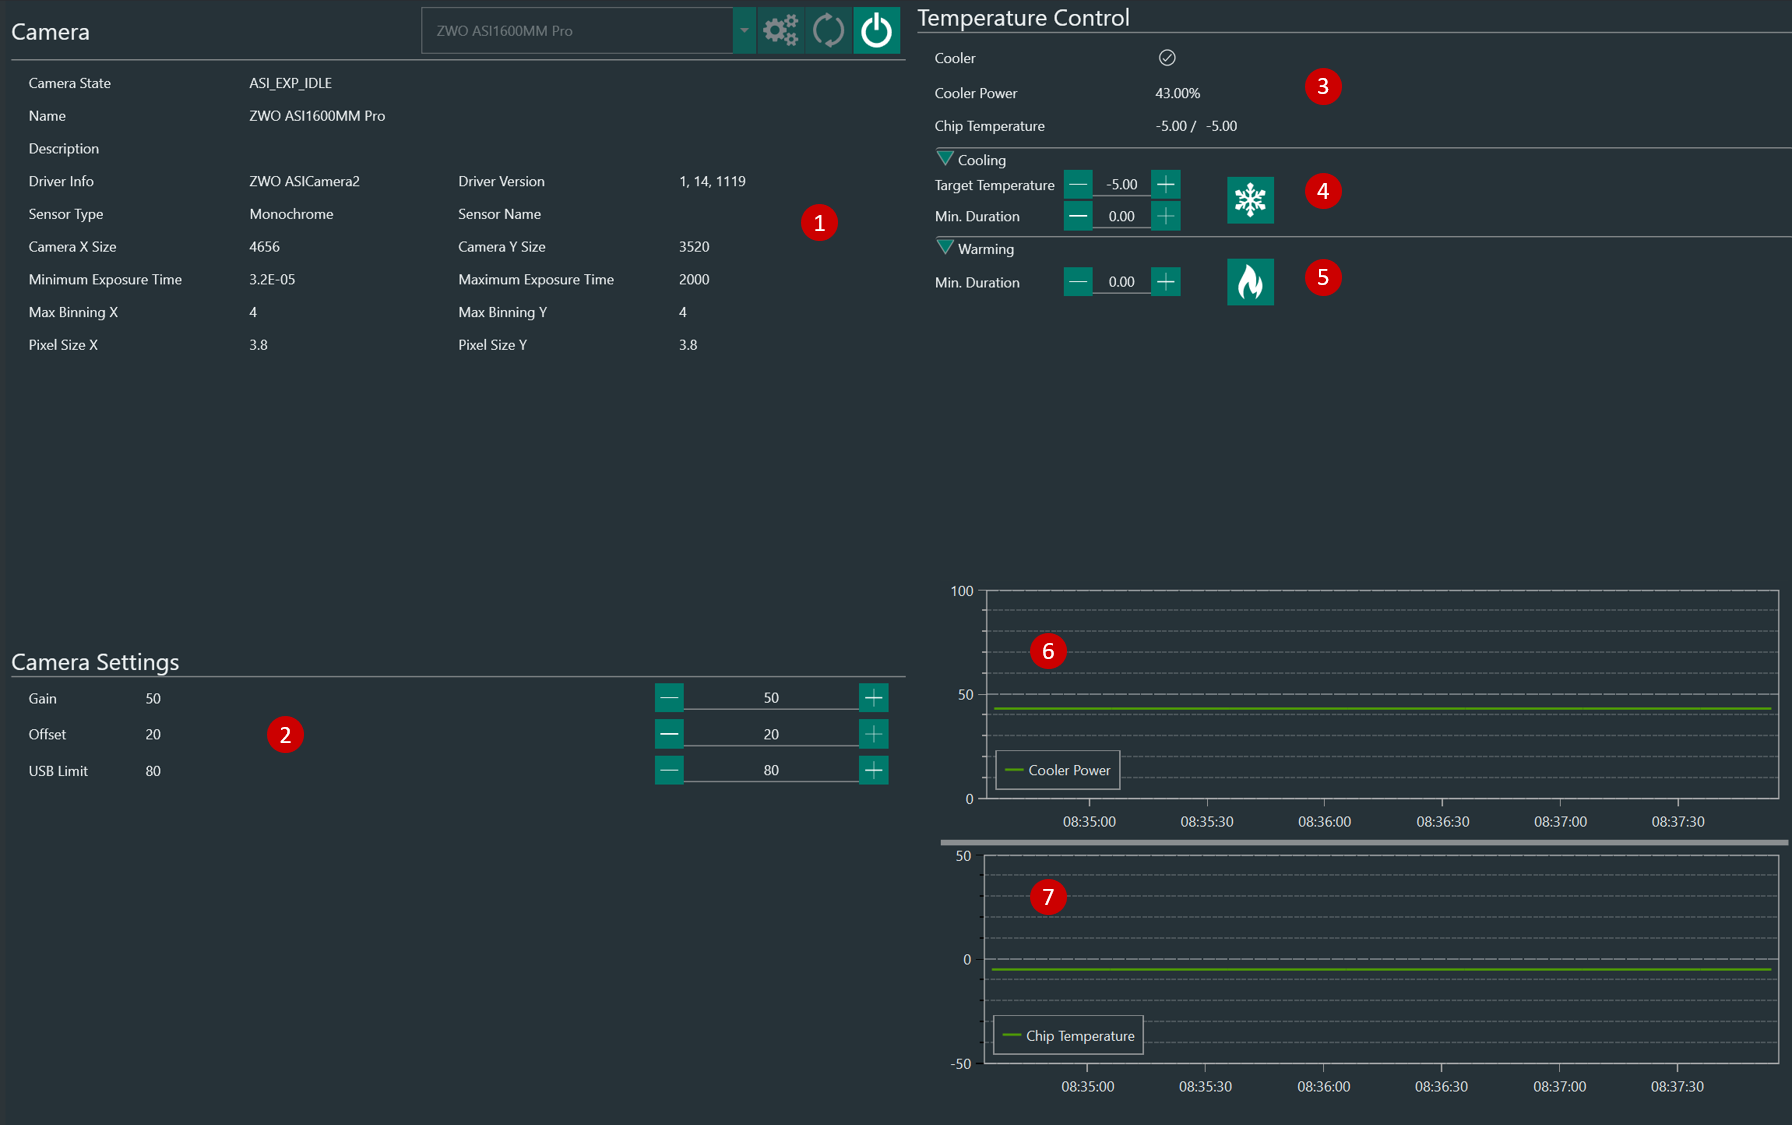
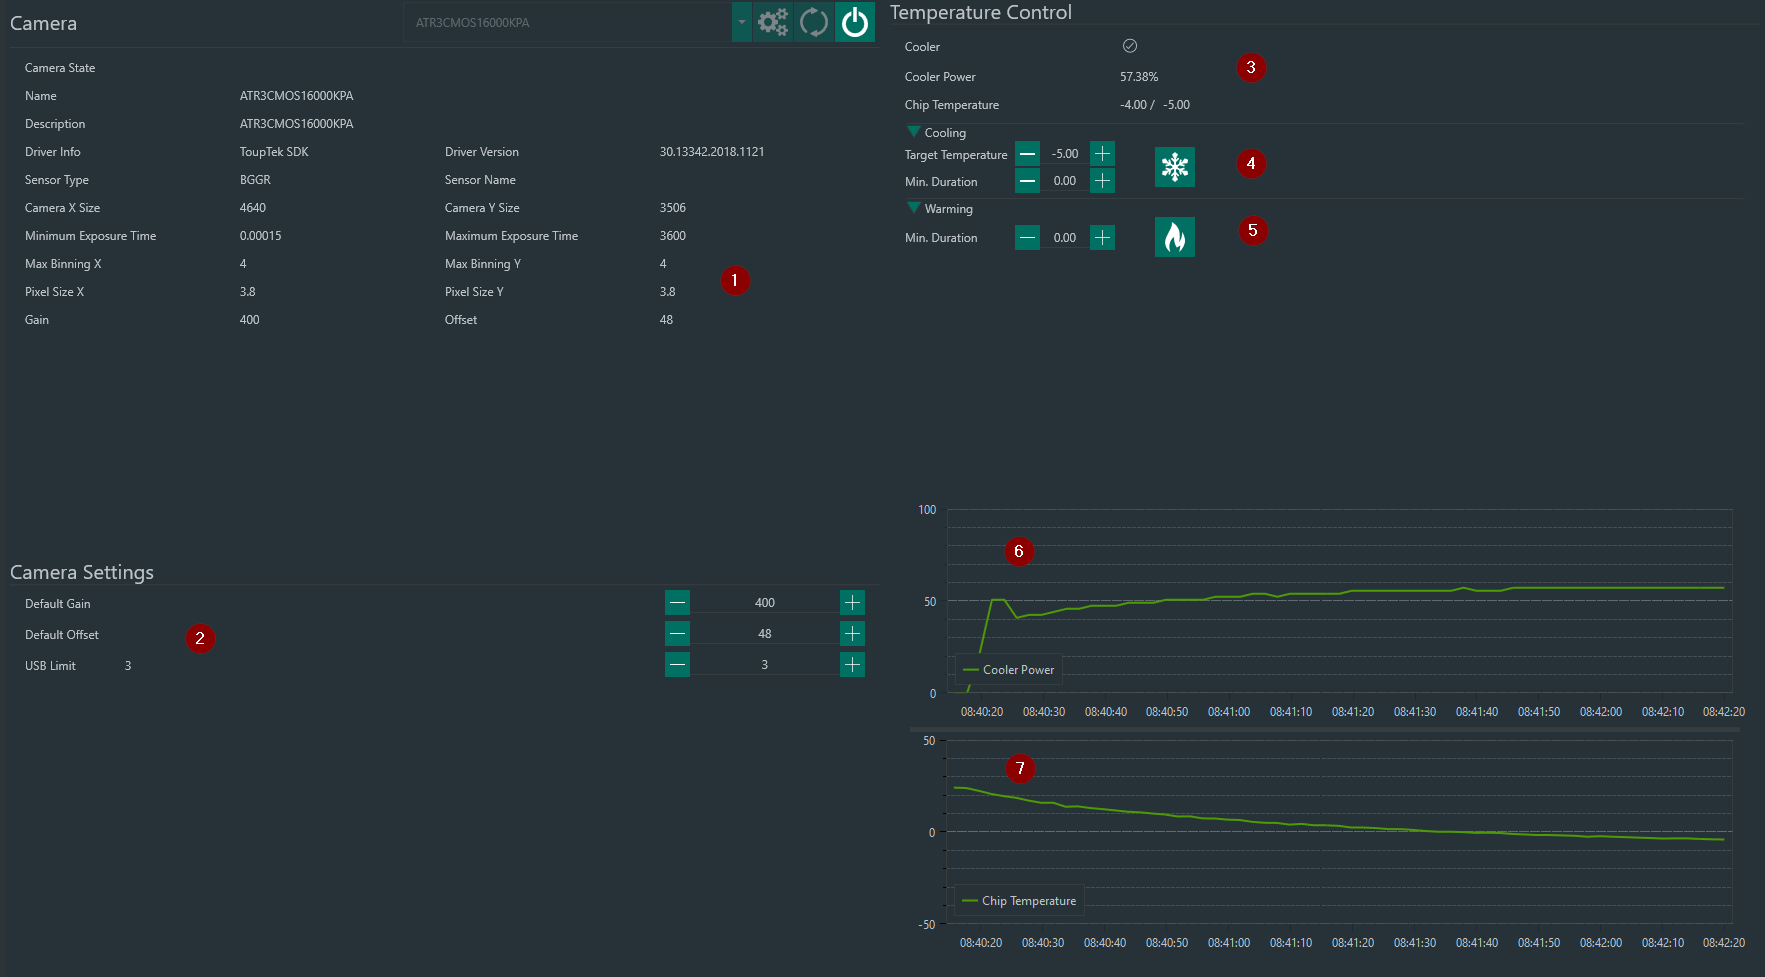
Merged in bugfix/defaultgain (pull request #27)
Bugfix/defaultgain

* adjust equipment camera tab for new default gain

* small grammar fixes

diff --git a/docs/tabs/equipment/camera.md b/docs/tabs/equipment/camera.md
@@ -2,13 +2,17 @@ The Filterwheel  Tab lets you connect an ASCOM-compatible filterwheel
 
 ![Camera](../../images/tabs/equipment_camera.png)
 
-1. Camera  information
-2. Default camera settings. These settings are used by default if not overriden by different inputs in other parts of the application
+1. **Camera  Info Panel**
+      * This section provides info about the camera in general, like sensor dimensions, sensor type, pixel size etc.
+
+2. **Camera Settings**
+      Default camera settings. These settings are used by default if not overriden by different inputs in other parts of the application
 
     ## Temperature control
 When a cooled camera is connected, this section allows the user to control cooling and warming
 
-3. Cooler status, power and chip temperature 
+3. **Info Panel**
+      * Provides info about the current camera cooler status, power usage and chip temperature (actual / target)
    
 4. **Cooling**
       * Define a target temparature and activate camera cooling with the ice icon. Min Duration is optional and lets you define a minimum duration for cooling, most cameras drivers already regulate the cooler power automatically and will gradually decrease the temperature.

diff --git a/docs/tabs/options/equipment.md b/docs/tabs/options/equipment.md
@@ -103,7 +103,7 @@ This is the tab where you set up all the parameters recmd-k vlated to your equip
 24. **Backlash IN/OUT**
       * The focuser backlash in the IN (decreasing position) and OUT (increasing position) directions, expressed in focuser steps. 
   
-        > When Overshoot is choosen, only ONE between Backlash IN and OUT must be set! When setting IN, the amount will be applied on each inward movement, so the final movement will always be outwards. For Backlash OUT, it will be the other way around
+        > When Overshoot is chosen, only ONE between Backlash IN and OUT must be set! When setting IN, the amount will be applied on each inward movement, so the final movement will always be outwards. For Backlash OUT, it will be the other way around
 
 25. **Binning**
     * The binning to be used for Autofocus exposures.

diff --git a/docs/advanced/autofocus.md b/docs/advanced/autofocus.md
@@ -239,7 +239,7 @@ N.I.N.A. offers two backlash compensation methods:
 **Backlash IN/OUT**
 * The focuser backlash in the IN (decreasing position) and OUT (increasing position) directions, expressed in focuser steps. 
   
-> When Overshoot is choosen, only ONE between Backlash IN and OUT must be set! When setting IN, the amount will be applied on each inward movement, so the final movement will always be outwards. For Backlash OUT, it will be the other way around
+> When Overshoot is chosen, only ONE between Backlash IN and OUT must be set! When setting IN, the amount will be applied on each inward movement, so the final movement will always be outwards. For Backlash OUT, it will be the other way around
 
 ### Binning
 

diff --git a/docs/tabs/sequence.md b/docs/tabs/sequence.md
@@ -23,7 +23,7 @@ The Sequence interface consists of the following elements:
      * Moves sequence to the left
      * Saves Sequence set to a specific folder. This will save all sequences that are present in the sequence tab.
      * Loads Sequence set. This will replace all sequences in the Sequence tab.
-     * Adds sequence 
+     * Adds a new sequence 
   
     > If a **Sequence Template** file is specified under **Options > Imaging > Sequence**, that template will be automatically loaded in the new tab.
 

diff --git a/docs/tabs/imaging.md b/docs/tabs/imaging.md
@@ -140,6 +140,8 @@ In this panel  all the important information about the last acaptured image are 
 
 **M. HFR History**  ![HFRicon](../images/tabs/imaging_HFRicon.PNG)  
 When automatic HFR (Half-Flux-Radius) star detection is ON, this panel will diplay the history of HFR values and number of stars used to evaluate the HFR for each exposure.
+The chart is limited to displaying a moving window of the last 100 exposures. 
+
 
 ![HFRHistory](../images/tabs/HFR2.png)
 
